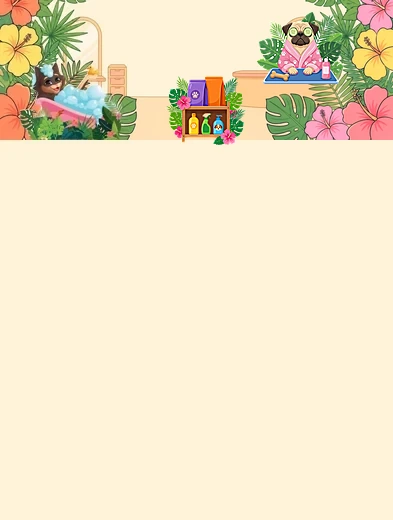
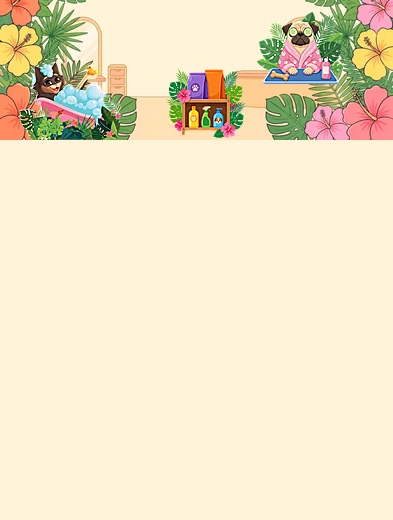
fix: rebuild cat from source for sharpness, raise product shelf on mobile
The cat+tub was still a straight crop-copy carried forward through
every hero rebuild since before this whole hero-editing pass started,
so unlike the pug/shelf it had accumulated several generations of lossy
webp re-encoding. Calibrated its scale/offset per breakpoint by
cross-correlating source/chat-baignoire-cutout.webp against each
current hero (brute-force search over scale + position, minimizing
pixel error — a single solid color feature wasn't reliable enough here
the way the pug's tray was), then pasted it fresh with the same
UnsharpMask treatment as the pug/shelf. Desktop's shelf was also still
a crop-copy from the original pre-project asset, so re-pasted that
region from the old file (untouched otherwise) while the cat now comes
from the source cutout.

Also raised the product shelf ~0.5cm (7-8px) on the two mobile
breakpoints (430/393) per feedback that it read as sitting oddly
against the background.

Changed region(s): [[0.0305, 0.1231, 0.3053, 0.2769], [0.4275, 0.1231, 0.6412, 0.2769]]

diff --git a/css/style.css b/css/style.css
@@ -268,7 +268,7 @@ a  { color: inherit; }
    bouton) est la seule chose qui reste en HTML, positionnee par-dessus via
    padding-top en pixels fixes calibres sur l'image de ce palier. */
 .hero {
-  background: url('../images/hero-desktop.webp?v=4') top center / 100% 100% no-repeat;
+  background: url('../images/hero-desktop.webp?v=5') top center / 100% 100% no-repeat;
   background-color: #fff3d9;
   aspect-ratio: 1559 / 900;
   position: relative;
@@ -1125,13 +1125,13 @@ a  { color: inherit; }
 
 /* Hero — image composite dediee (897x675) : fond + chat + carlin deja fusionnes */
 @media (min-width: 859px) and (max-width: 1024px) {
-  .hero { background-image: url('../images/hero-tablet-897.webp?v=4'); aspect-ratio: 897 / 675; }
+  .hero { background-image: url('../images/hero-tablet-897.webp?v=5'); aspect-ratio: 897 / 675; }
   .hero__content { padding-top: 39.58%; }
 }
 
 /* Hero — image composite dediee (820x648) */
 @media (min-width: 768px) and (max-width: 858px) {
-  .hero { background-image: url('../images/hero-tablet-820.webp?v=4'); aspect-ratio: 820 / 648; }
+  .hero { background-image: url('../images/hero-tablet-820.webp?v=5'); aspect-ratio: 820 / 648; }
   .hero__content { padding-top: 39.88%; }
 }
 
@@ -1234,13 +1234,13 @@ a  { color: inherit; }
 
 /* Hero — image composite dediee (430x545) : fond + chat + carlin, pas de produits */
 @media (min-width: 421px) and (max-width: 767px) {
-  .hero { background-image: url('../images/hero-mobile-430.webp?v=4'); aspect-ratio: 430 / 545; }
+  .hero { background-image: url('../images/hero-mobile-430.webp?v=5'); aspect-ratio: 430 / 545; }
   .hero__content { padding-top: 37.67%; }
 }
 
 /* Hero — image composite dediee (393x520) */
 @media (max-width: 420px) {
-  .hero { background-image: url('../images/hero-mobile-393.webp?v=4'); aspect-ratio: 393 / 520; }
+  .hero { background-image: url('../images/hero-mobile-393.webp?v=5'); aspect-ratio: 393 / 520; }
   .hero__content { padding-top: 37.66%; }
 }
 

diff --git a/index.html b/index.html
@@ -72,11 +72,11 @@
 
   <title>La Puce à l'Oreille — Toilettage canin &amp; félin · 56390</title>
   <link rel="icon" type="image/svg+xml" href="images/favicon.svg">
-  <link rel="preload" href="images/hero-desktop.webp?v=4" as="image" type="image/webp" media="(min-width: 1025px)">
-  <link rel="preload" href="images/hero-tablet-897.webp?v=4" as="image" type="image/webp" media="(min-width: 859px) and (max-width: 1024px)">
-  <link rel="preload" href="images/hero-tablet-820.webp?v=4" as="image" type="image/webp" media="(min-width: 768px) and (max-width: 858px)">
-  <link rel="preload" href="images/hero-mobile-430.webp?v=4" as="image" type="image/webp" media="(min-width: 421px) and (max-width: 767px)">
-  <link rel="preload" href="images/hero-mobile-393.webp?v=4" as="image" type="image/webp" media="(max-width: 420px)">
+  <link rel="preload" href="images/hero-desktop.webp?v=5" as="image" type="image/webp" media="(min-width: 1025px)">
+  <link rel="preload" href="images/hero-tablet-897.webp?v=5" as="image" type="image/webp" media="(min-width: 859px) and (max-width: 1024px)">
+  <link rel="preload" href="images/hero-tablet-820.webp?v=5" as="image" type="image/webp" media="(min-width: 768px) and (max-width: 858px)">
+  <link rel="preload" href="images/hero-mobile-430.webp?v=5" as="image" type="image/webp" media="(min-width: 421px) and (max-width: 767px)">
+  <link rel="preload" href="images/hero-mobile-393.webp?v=5" as="image" type="image/webp" media="(max-width: 420px)">
   <link rel="stylesheet" href="css/style.css?v=20260727g">
 </head>
 <body>
